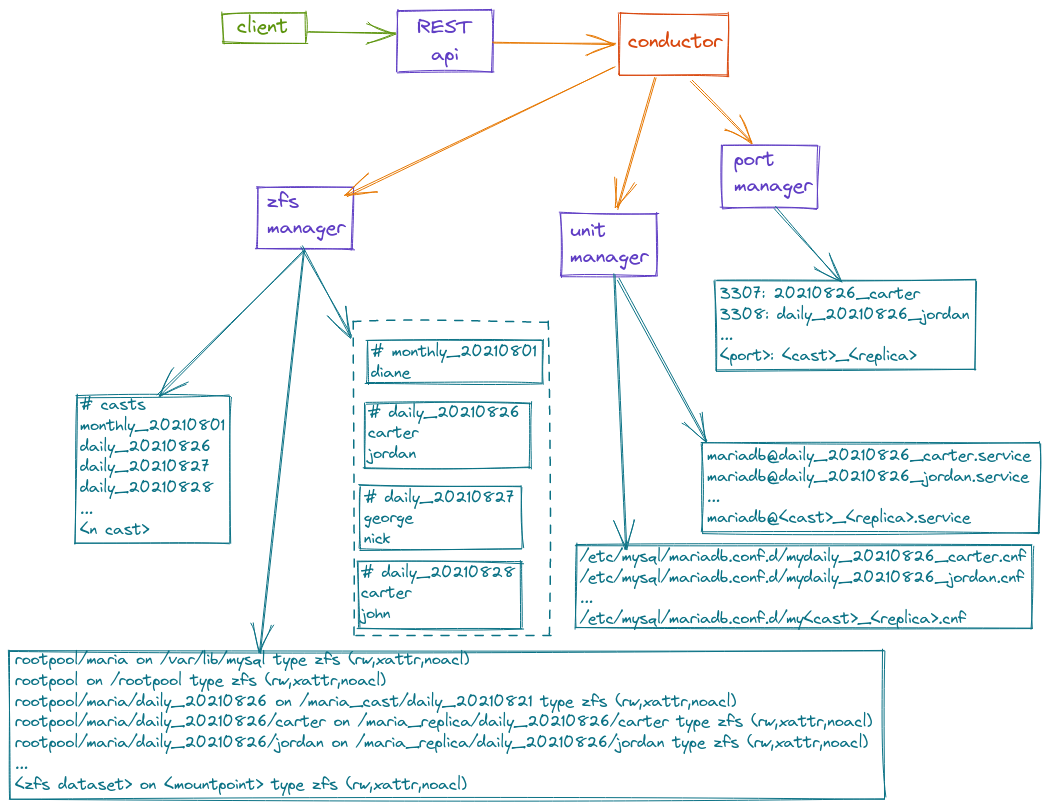
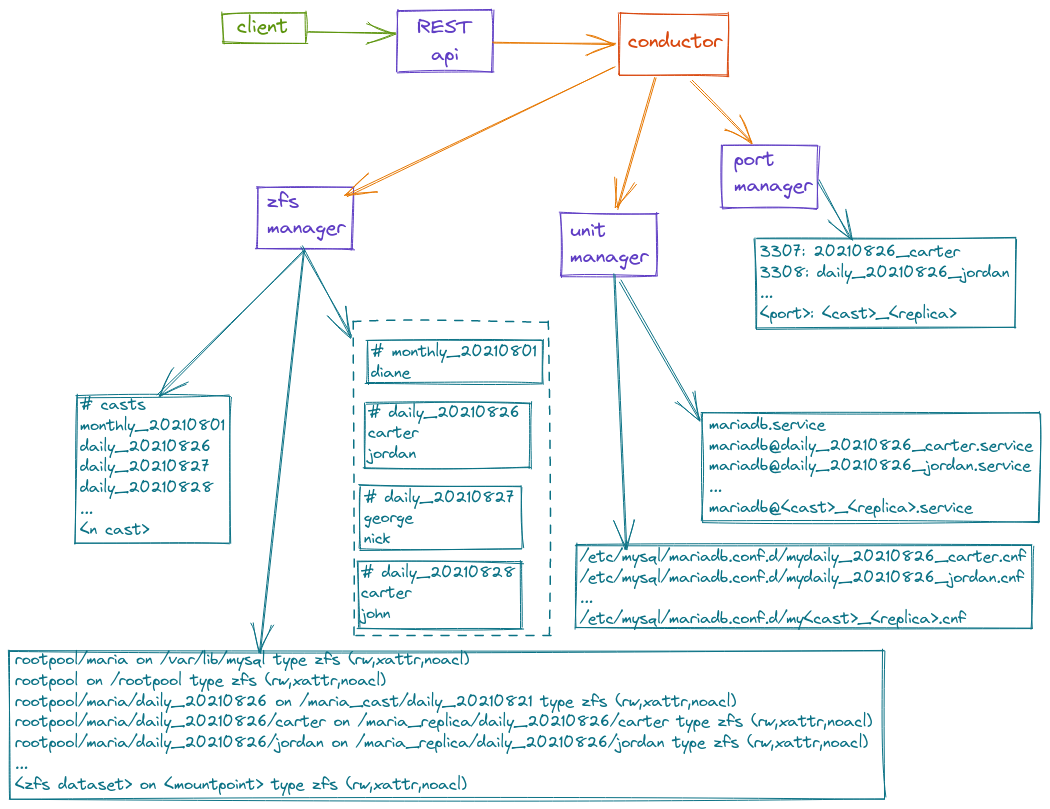
update readme and diagram

diff --git a/README.md b/README.md
@@ -1,5 +1,6 @@
 # Database Conductor
-Creates a ZFS pool on a block device, manages an hierarchy of snapshots and clones.  
+Creates a ZFS pool on a block device, manages an hierarchy of zfs datasets, list of
+ports and systemd units.  
 Includes tool to control the conductor service (conductorctl.py).
 
 ![](diagram.png)
